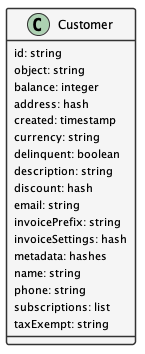
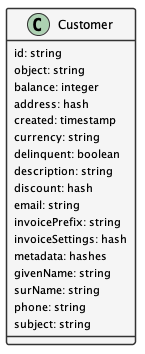
Update Quotas to add usages, change usage to totalUsage.

Changed region(s): [[0.0828, 0.7458, 0.7724, 0.9322]]

diff --git a/membership-plan-management.rst b/membership-plan-management.rst
@@ -185,10 +185,10 @@ Customer REST endpoints:
         invoicePrefix: string
         invoiceSettings: hash
         metadata: hashes
-        name: string
+        givenName: string
+        surName: string
         phone: string
-        subscriptions: list
-        taxExempt: string
+        subject: string
     }
     @enduml
 
@@ -327,7 +327,8 @@ Quota REST endpoints:
         name: string
         softLimit: integer
         hardLimit: integer
-        usage: integer
+        usages: list
+        totalUsage: integer
         unit: string
         subscriptionId: integer
         subject: string
